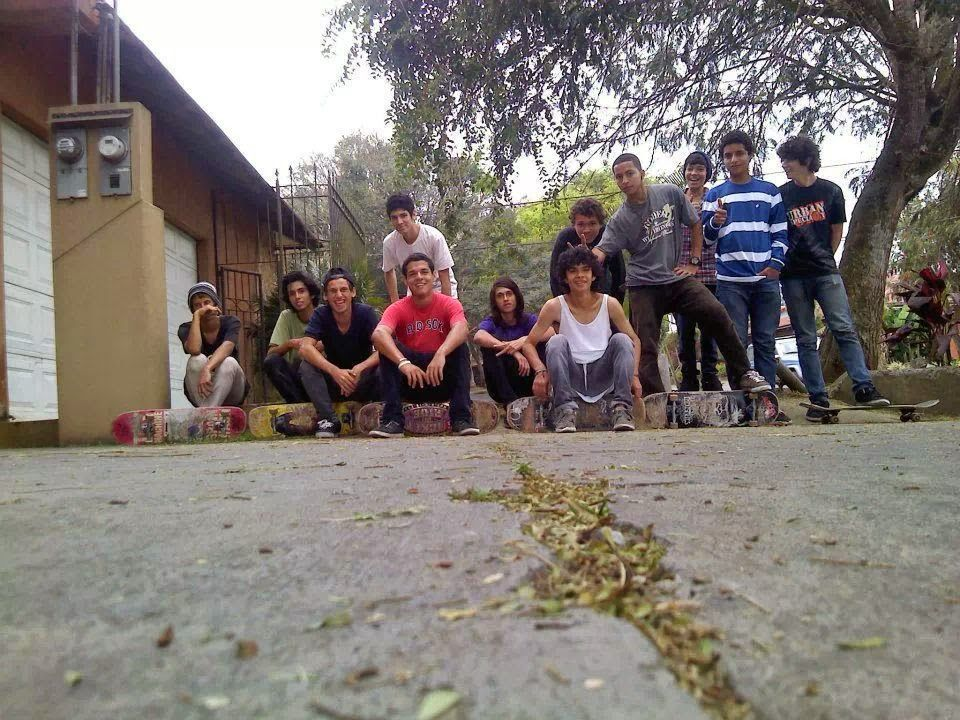
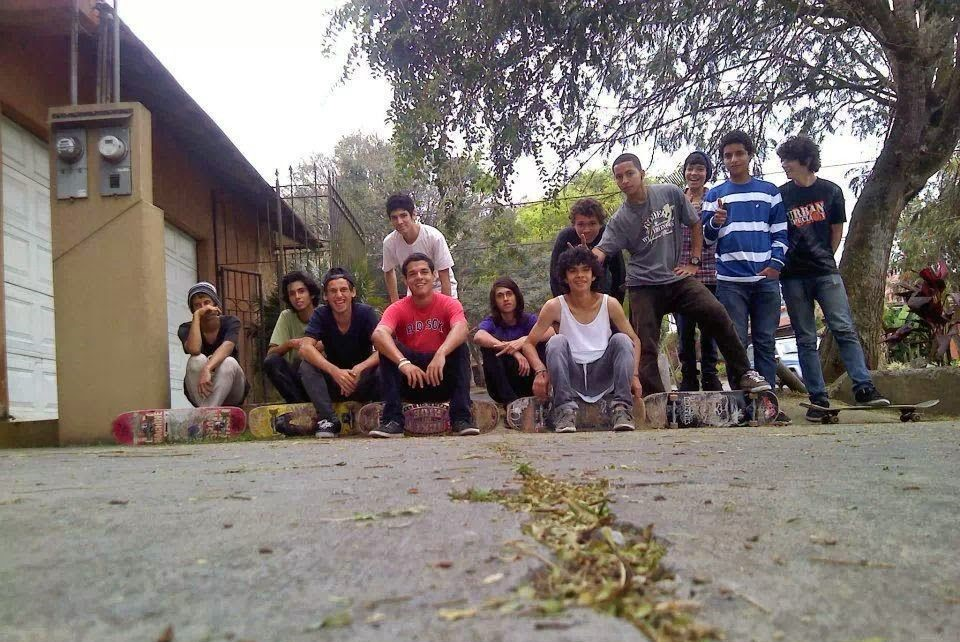
gugyu

diff --git a/public/css/Contact.css b/public/css/Contact.css
@@ -225,12 +225,6 @@ textarea {
 .form-group textarea {
   transition:
     border-color 0.3s ease,
-    transform 0.2s ease;
-}
-
-.form-group input:focus,
-.form-group textarea:focus {
-  transform: scale(1.02);
 }
 
 @media (max-width: 1024px) {

diff --git a/public/css/History.css b/public/css/History.css
@@ -148,6 +148,7 @@
 .history-split-content .history-lead {
   font-size: 1.3rem;
   margin-bottom: 20px;
+  color: #1b667f;
 }
 
 @media (max-width: 1200px) {
